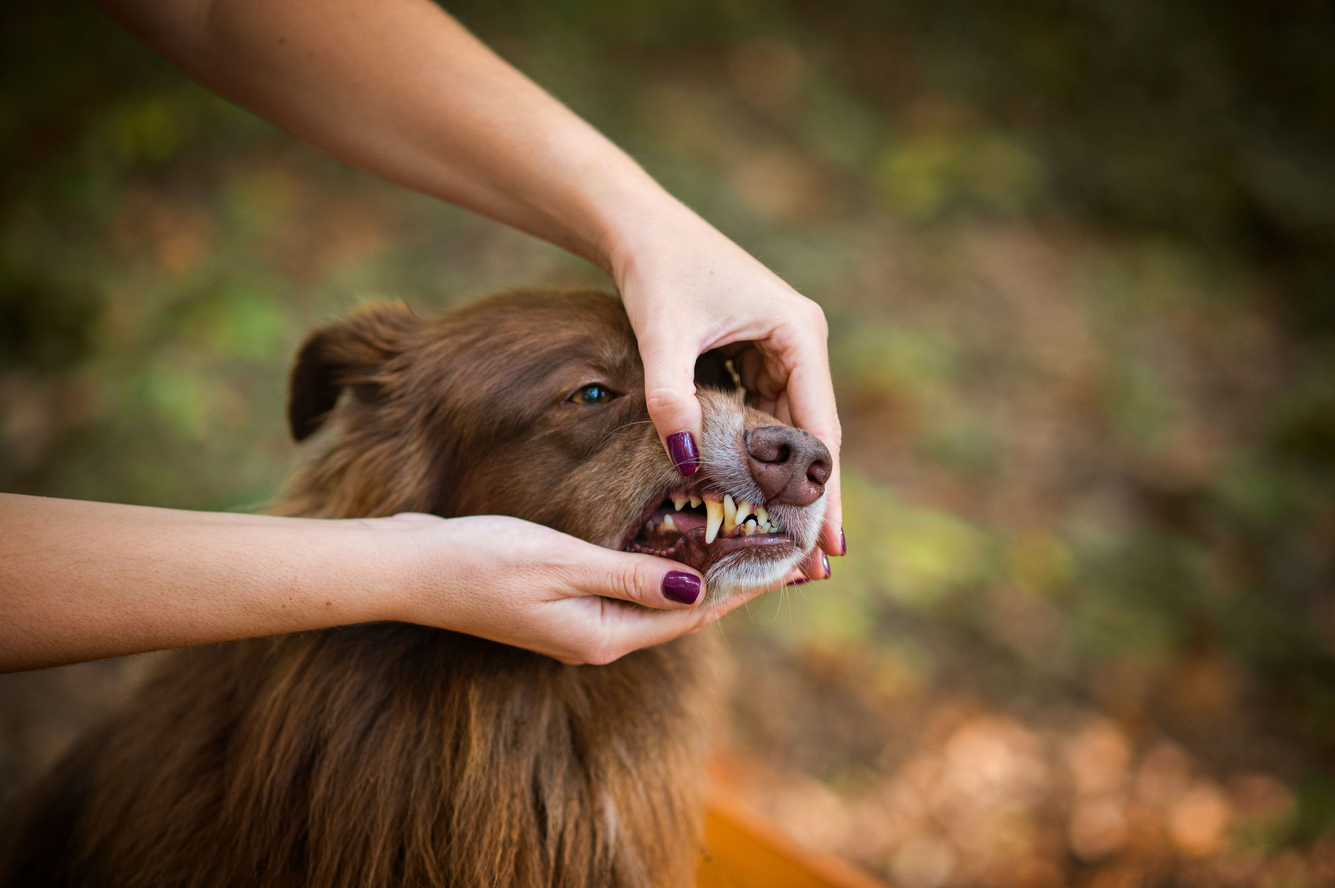
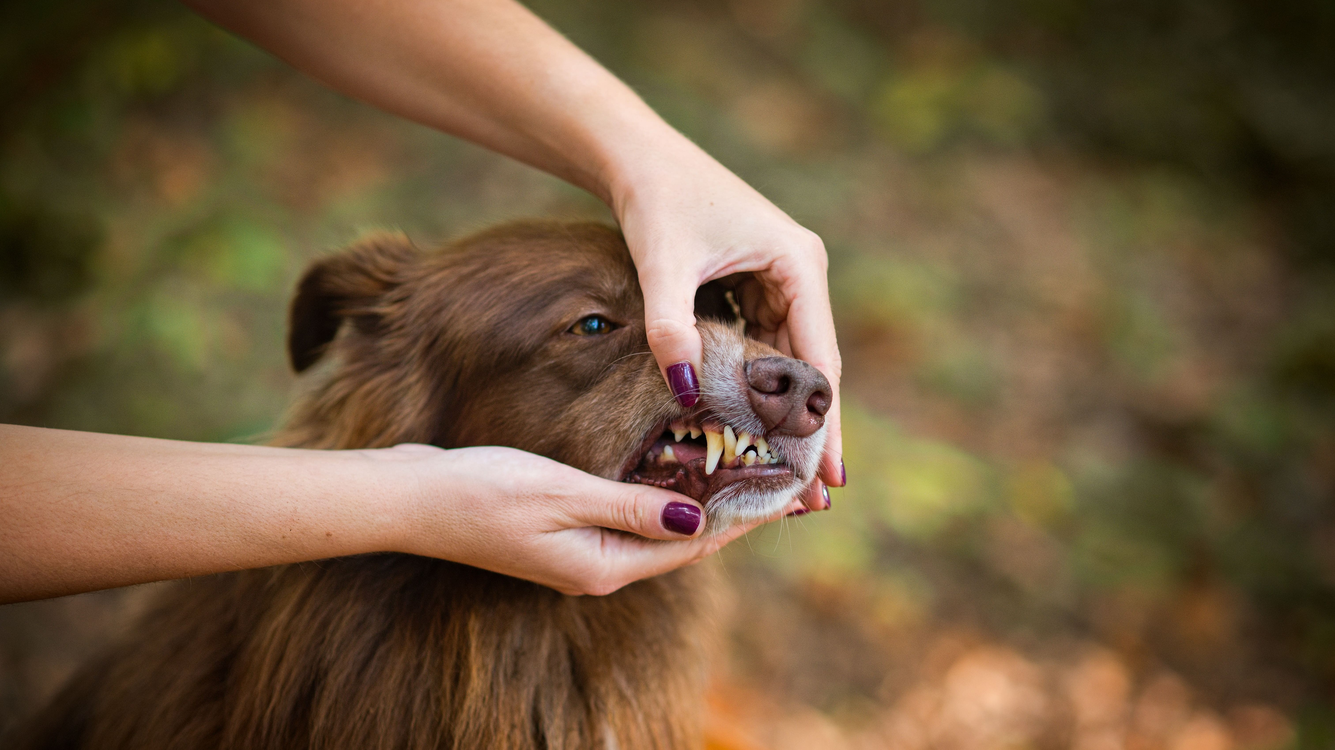
mobil skoro hotovo

diff --git a/styles.css b/styles.css
@@ -10,7 +10,6 @@ body {
     color: #333;
 }
 
-/* Slideshow Styles */
 .slideshow-container {
     width: 100%;
     max-width: 600px;  /* Default size for larger screens */
@@ -20,17 +19,30 @@ body {
     border-radius: 10px;
     box-shadow: 0 4px 8px rgba(0, 0, 0, 0.2);
     position: relative;
-    height: 350px;
+    aspect-ratio: 16 / 9; /* Maintain 16:9 aspect ratio */
     display: flex;
     justify-content: center;
     align-items: center;
+}
+
+.slideshow {
+    display: flex;
+    transition: transform 0.5s ease-in-out;
+    height: 100%; /* Take up full height of the container */
+}
+
+.slideshow img {
+    width: 100%;
+    height: 100%;
+    object-fit: cover; /* Ensures images maintain aspect ratio and fill the frame */
+    flex-shrink: 0;
+    display: block;
 }
 
 /* Media Query for smaller screens (phone use) */
 @media screen and (max-width: 768px) {
     .slideshow-container {
         max-width: 90%; /* Make it smaller on phones */
-        height: 250px; /* Adjust height for smaller screens */
     }
 }
 
@@ -38,24 +50,11 @@ body {
 @media screen and (min-width: 1024px) {
     .slideshow-container {
         max-width: 1024px; /* Increase max width for desktop */
-        height: 450px; /* Adjust height for larger screens */
     }
 }
 
-/* Slideshow Styles (unchanged) */
-.slideshow {
-    display: flex;
-    transition: transform 0.5s ease-in-out;
-}
 
-.slideshow img {
-    width: 100%;
-    height: auto;
-    object-fit: contain;
-    flex-shrink: 0;
-    display: block;
-}
-
+/* Arrow styles */
 .arrow {
     position: absolute;
     top: 50%;
@@ -68,10 +67,11 @@ body {
     border-radius: 50%;
     font-size: 24px;
     z-index: 10;
-    opacity: 0; /* Initially hidden */
+    opacity: 0; /* Initially hidden on larger screens */
     transition: opacity 0.3s ease;
 }
 
+/* Show arrows on hover for larger screens */
 .slideshow-container:hover .arrow {
     opacity: 1; /* Show arrows when hovering over the container */
 }
@@ -87,6 +87,14 @@ body {
 .arrow:hover {
     background-color: rgba(0, 0, 0, 0.8);
 }
+
+/* Make arrows permanently visible on mobile screens */
+@media screen and (max-width: 768px) {
+    .arrow {
+        opacity: 1; /* Always visible */
+    }
+}
+
 
 /* Header and Footer Styles */
 header, footer {
@@ -228,26 +236,47 @@ footer {
     text-align: center;
 }
 
+.parent-container {
+    display: flex;
+    justify-content: center; /* Zarovná na střed horizontálně */
+    align-items: center; /* Zarovná na střed vertikálně */
+}
+
 .call-link {
     display: inline-flex;
     align-items: center;
     justify-content: center;
-    background-color: #4CAF50; /* Zelená barva */
+    background-color: #4CAF50;
     color: white;
     padding: 10px 20px;
-    border-radius: 30px; /* Oválný rámeček */
+    border-radius: 30px;
     text-decoration: none;
     font-size: 16px;
     font-weight: bold;
-}
-
-.call-link:hover {
-    background-color: #45a049; /* Tmavší zelená při najetí */
+    margin: 20px auto;
 }
 
 .phone-icon {
-    margin-right: 10px; /* Mezera mezi ikonou a textem */
-    font-size: 20px; /* Velikost ikony */
+    display: inline-block;
+    width: 20px;
+    height: 20px;
+    background-color: white;
+    -webkit-mask: url('phone-icon.svg') no-repeat center;
+    mask: url('phone-icon.svg') no-repeat center;
+    -webkit-mask-size: contain;
+    mask-size: contain;
+    margin-right: 10px;
+    padding-left: 10px;
+}
+.call-link i {
+    margin-right: 10px;
+    font-size: 20px;
+}
+
+
+
+.call-link:hover {
+    background-color: #45a049; /* Tmavší zelená při najetí */
 }
 
 

diff --git a/index.html b/index.html
@@ -30,19 +30,19 @@
     </div>
     <div class="tabulka">
         <h2>Výhody ošetření zvířete v domácím prostředí:</h2>
-        <h3 class="expandable"><span class="arrow">🢂a</span>Bez nutnosti přepravy</h3>
+        <h3 class="expandable"><!--<span class="arrow">🢂</span>-->🢂Bez nutnosti přepravy</h3>
         <div class="content">
             <p>Velmi vhodné pro ty, kdo se nemají například jak k veterináři dopravit, doprava s mazlíčkem by byla příliš komplikovaná nebo zvířátko není dostatečně zvyklé na cestování. Rádi tuto možnost využijí majitelé více zvířat, kdy doprava celé smečky do veterinární ordinace bývá komplikovaná, také majitelé koček, které jsou obecně velmi citlivé ke stresu spojeným s přepravou.</p>
         </div>
-        <h3 class="expandable"><span class="arrow">🢂</span>Minimalizace stresu zvířete</h3>
+        <h3 class="expandable"><!--<span class="arrow">🢂</span>-->🢂Minimalizace stresu zvířete</h3>
         <div class="content">
             <p>Díky výjezdové službě až k Vám domů můžeme zvíře ošetřit/vyšetřit přímo v pohodlí domova. Odpadá stres spojený s přepravou, s časem stráveným v přeplněné čekárně ordinace a stres spojený s přítomností jiných zvířat či cizích osob. Omezení stresu je navíc velmi efektivní, jelikož zvířata mohou být ve větší psychické pohodě a vyšetření proběhne mnohdy i výrazně rychleji.</p>
         </div>
-        <h3 class="expandable"><span class="arrow">🢂</span>Vyšší bezpečnost</h3>
+        <h3 class="expandable"><!--<span class="arrow">🢂</span>-->🢂Vyšší bezpečnost</h3>
         <div class="content">
-            <p>Nedochází k rizikovému kontaktu s ostatními zvířaty, což je zvláště důležité u štěňat/koťat, mladých nebo naopak starých zvířat a nemocných zvířata. Omezí se tak možnost přenosu infekčních onemocnění na další zvířata.</p>
+            <p>Nedochází k rizikovému kontaktu s ostatními zvířaty, což je zvláště důležité u štěňat/koťat, mladých nebo naopak starých zvířat a nemocných zvířat. Omezí se tak možnost přenosu infekčních onemocnění na další zvířata.</p>
         </div>
-        <h3 class="expandable"><span class="arrow">🢂</span>Časová úspora</h3>
+        <h3 class="expandable"><!--<span class="arrow">🢂</span>-->🢂Časová úspora</h3>
         <div class="content">
             <p>Termín návštěvy předem společně dohodneme, přesně tak budete vědět datum a čas návštěvy a vyhnete se tak zbytečnému dlouhému čekání v ordinaci.</p>
         </div>
@@ -53,7 +53,7 @@
         <img src="pes.png" alt="pes">
         <h3>Kočky</h3>
         <img src="kocka.png" alt="kočka">
-        <h3>Drobní savce</h3>
+        <h3>Drobní savci</h3>
         <img src="mali.png" alt="drobní savci">
     </div>
     <footer>

diff --git a/sluzby.html b/sluzby.html
@@ -28,16 +28,6 @@
         <h3 onclick="scrollToEuthanasia()" class="preklik">Eutanasie v domácím prostředí</h3>
         <h3 onclick="scrollToAparat()" class="preklik">Manuální ošetření pohybového aparátu</h3>
     </div>
-    <div class="tabulka">
-        <h3>Prevence:</h3>
-        <ul>
-            <li>klinické vyšetření</li>
-            <li>vakcinace psů, koček, drobných savců</li>
-            <li>antiparazitátní program, pomoc při výběru vhodného antiparazitika</li>
-            <li>úprava drápků</li>
-            <li>ošetření paranálních váčků</li>
-        </ul>
-    </div>
     <div class="slideshow-container">
         <div class="slideshow">
             <img src="pes_drapy-min.jpg" loading="lazy" alt="Obrázek 1">
@@ -50,6 +40,16 @@
         </div>
         <button class="arrow left">&#10094;</button>
         <button class="arrow right" id="prevence">&#10095;</button>
+    </div>
+    <div class="tabulka">
+        <h3>Prevence:</h3>
+        <ul>
+            <li>klinické vyšetření</li>
+            <li>vakcinace psů, koček, drobných savců</li>
+            <li>antiparazitární program, pomoc při výběru vhodného antiparazitika</li>
+            <li>úprava drápků</li>
+            <li>ošetření paranálních váčků</li>
+        </ul>
     </div>
 
     <div class="tabulka">
@@ -115,9 +115,13 @@
         <h3>Průběh eutanasie</h3>
         <p>Se zvířetem se opatrně a v klidu seznámím. Sami rozhodnete, kde chcete, aby Váš mazlíček usínal. Zvíře se uvede do stavu sedace, následně jsou aplikovány vysoké dávky anestetik a zvíře pomalu usíná tak, jako je tomu při chystání na chirurgický zákrok. Ve stavu hluboké anestezie zvíře již nevnímá okolí a necítí žádnou bolest. Poté následuje poslední injekce, která zastavuje srdeční a dechovou činnost. </p>
         <h3>Jste rozhodnutí pro eutanasii doma?</h3>
-        <a href="kontakt.html" class="call-link">
-            <i class="phone-icon">&#9742;</i> Objednejte si veterináře domů
-        </a>        
+        <div class="parent-container">
+            <link href="https://cdnjs.cloudflare.com/ajax/libs/font-awesome/6.0.0-beta3/css/all.min.css" rel="stylesheet">
+            <a href="kontakt.html" class="call-link">
+                <i class="fas fa-phone"></i> Objednejte si veterináře domů
+            </a>
+            
+        </div>        
     </div>
     <div class="tabulka">
         <h2 id="aparat" >Manuální ošetření pohybového aparátu</h3>

diff --git a/kontakt.html b/kontakt.html
@@ -26,7 +26,7 @@
             <p>MVDr. Bc. Zuzana Juřičková</p>
             <p>Telefon: +420 775 938 444</p>
             <p>Email: jurickova.zu@seznam.cz</p>
-            <p>Pracovní doba: dle tel. domluvy (8:00-18:00), příplatek za víkend a státní svátky viz<a href="cenik.html">ceník</a></p>
+            <p>Pracovní doba: dle tel. domluvy (8:00-18:00), příplatek za víkend a státní svátky viz <a href="cenik.html">ceník</a></p>
             <p>Lokalita: Plzeň a okolí </p>
         </div>
     <footer>
